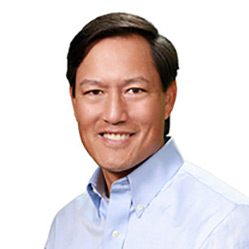
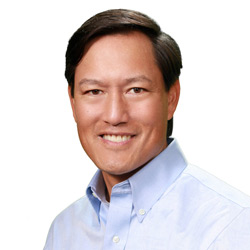
Fix bug 1459803: Upgrade Kenton Chow assets & bio

diff --git a/bedrock/mozorg/templates/mozorg/about/leadership.html b/bedrock/mozorg/templates/mozorg/about/leadership.html
@@ -223,7 +223,7 @@
 
       <article id="kenton-chow" data-id="kenton-chow" class="vcard has-bio" itemscope itemtype="http://schema.org/Person">
         <figure class="headshot">
-          <img class="photo" itemprop="image" alt="" src="{{ static('img/mozorg/about/leadership/kenton-chow.jpg') }}">
+          {{ high_res_img('mozorg/about/leadership/kenton-chow.jpg', {'alt': '', 'width': '160', 'height': '160', 'class': 'photo', 'itemprop': 'image'}) }}
           <figcaption><h4 class="fn" itemprop="name">Kenton Chow</h4></figcaption>
         </figure>
 
@@ -231,6 +231,7 @@
           <p class="title" itemprop="jobTitle">{{ _('Interim Chief Finance Officer') }}</p>
 
           <ul class="utility">
+            <li><a class="file" rel="external" href="https://assets.mozilla.net/leadership/mozilla_portrait_Kenton-Chow.jpg">{{ _('Download high resolution photo') }}</a></li>
             <li><a class="link" href="{{ url('mozorg.about.leadership') }}#kenton-chow">{{ _('Link to this bio') }}</a></li>
           </ul>
         </div>
@@ -257,6 +258,12 @@
           <p>
           {% trans %}
             Kenton has a B.S. in Commerce and Finance and an MBA from Santa Clara University. He is a CPA in the State of California and serves on the Board of Directors of Modcam AB, an IoT vision technology start-up, and Union + Webster, a marketing agency.
+          {% endtrans %}
+          </p>
+
+          <p>
+          {% trans %}
+            Kenton is also a partner at FLG Partners, a leading CFO services firm in Silicon Valley.
           {% endtrans %}
           </p>
         </div>
